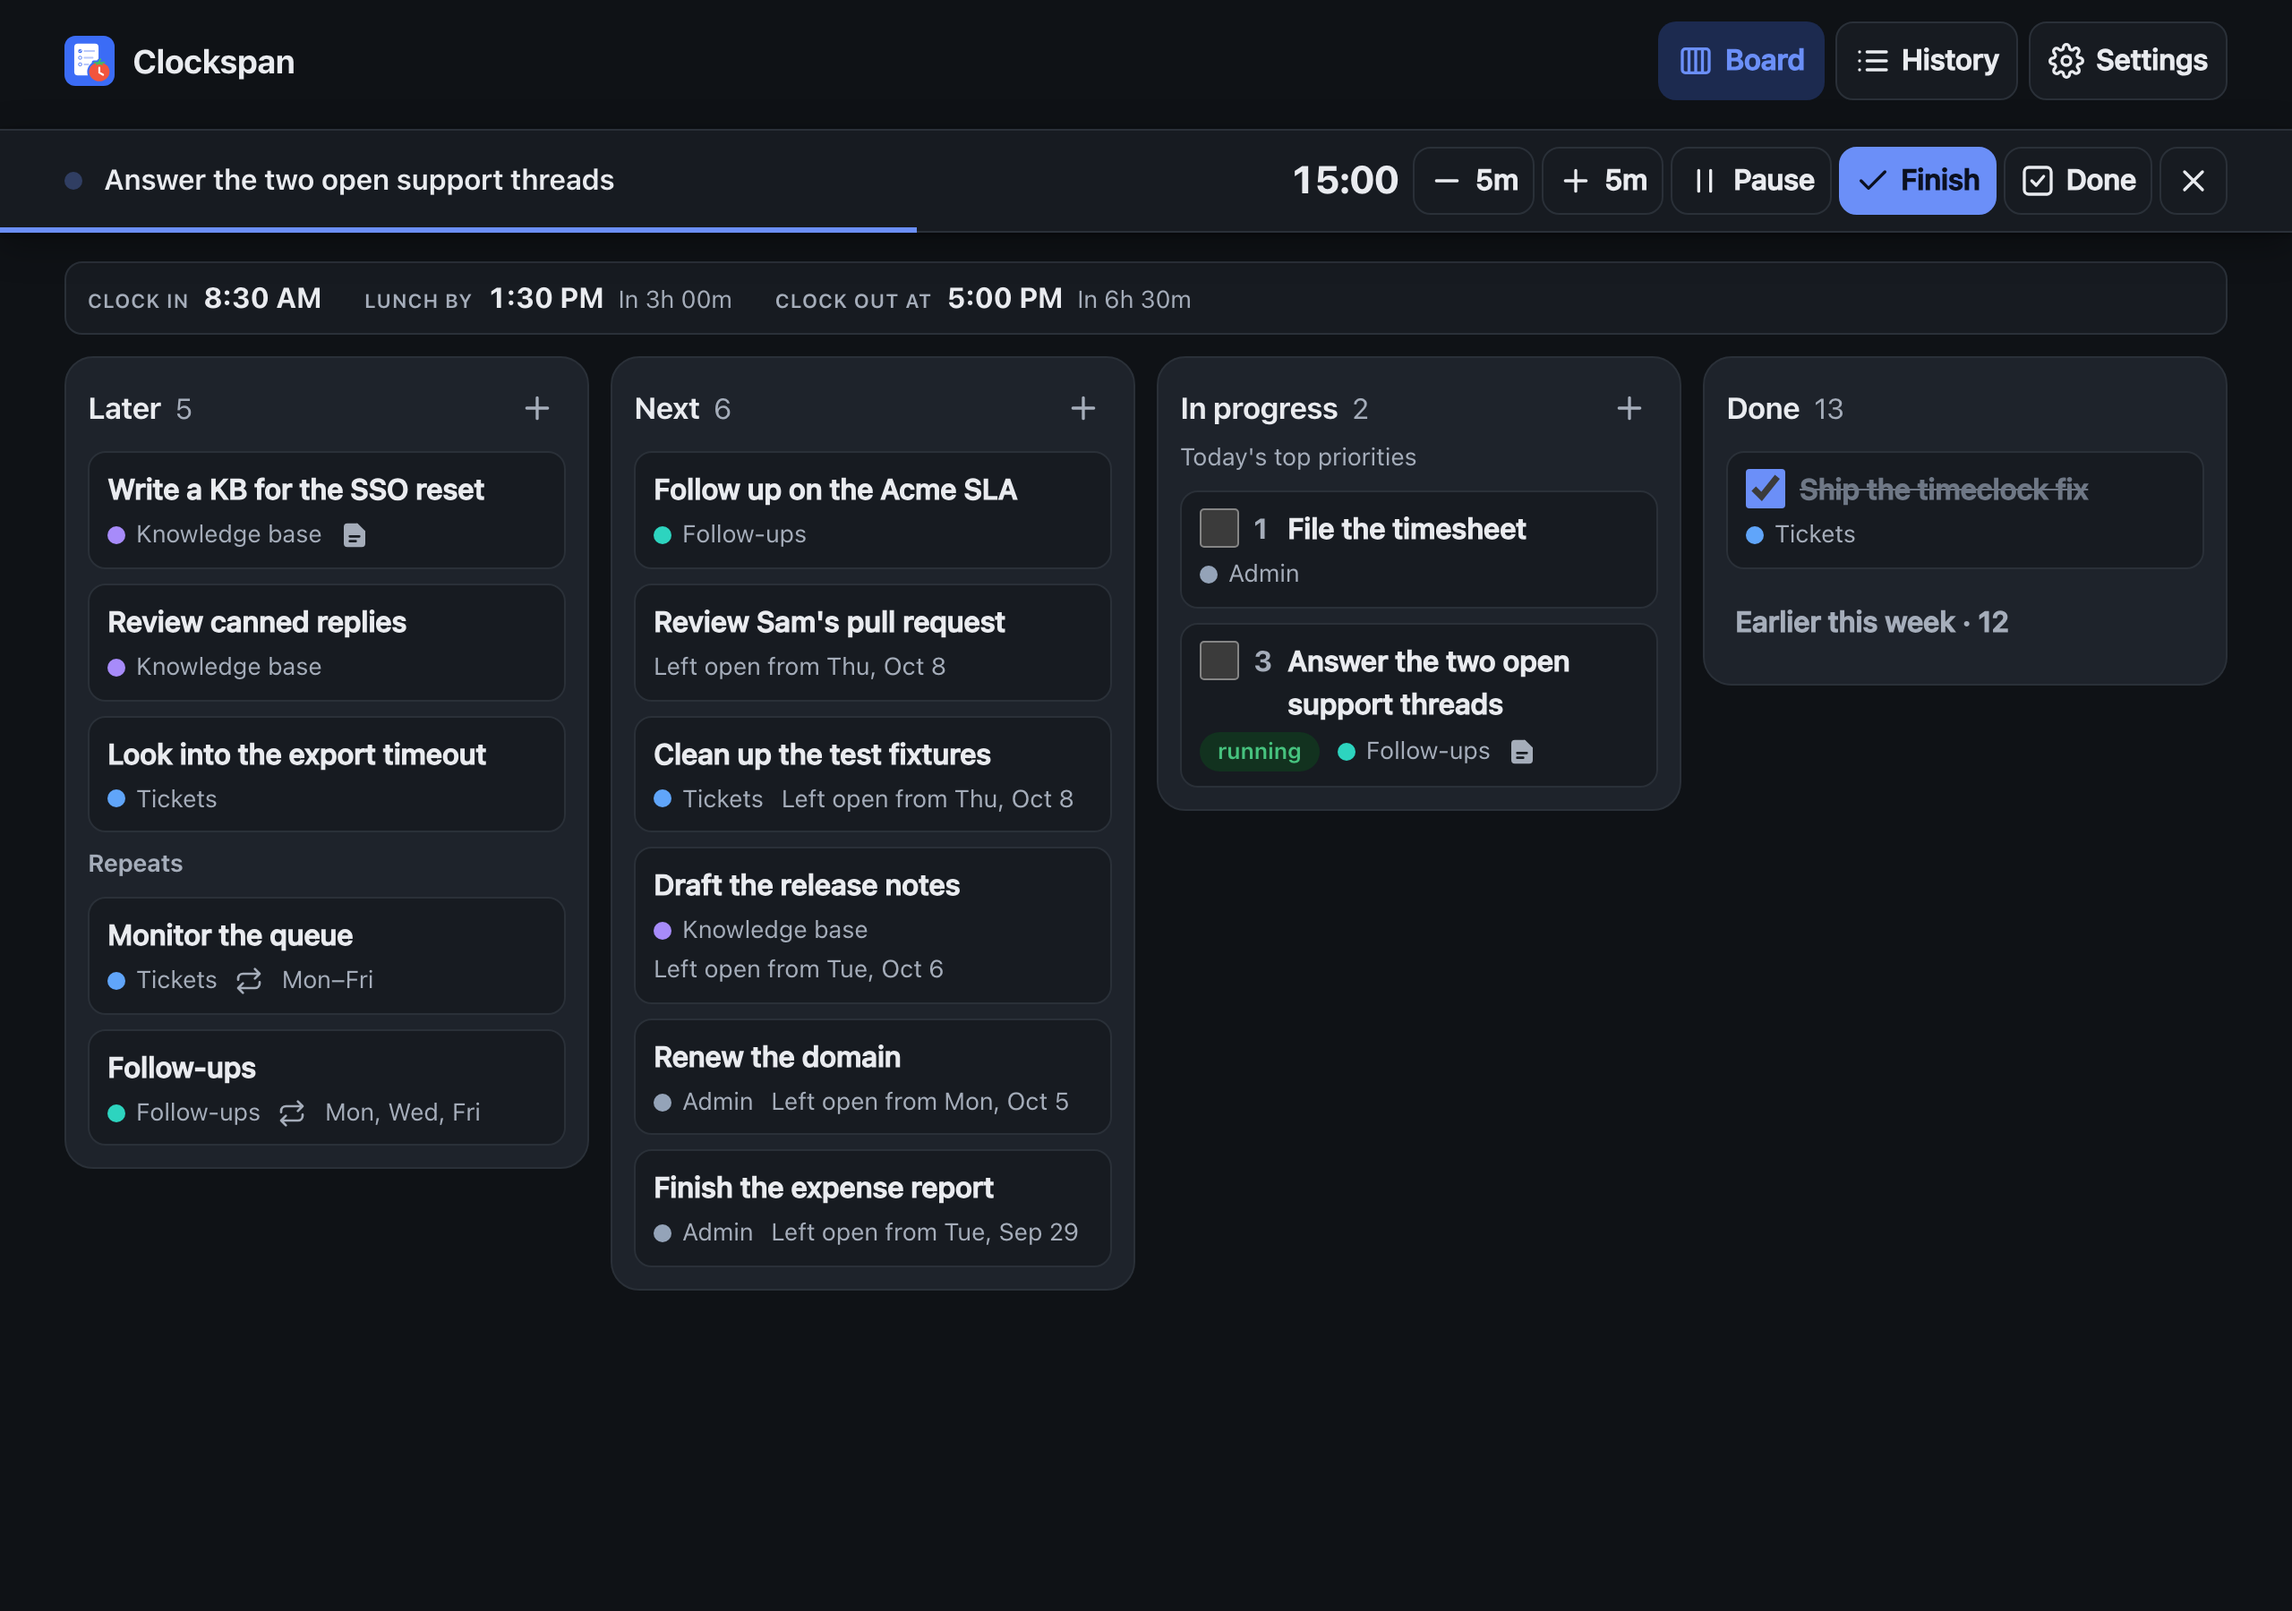
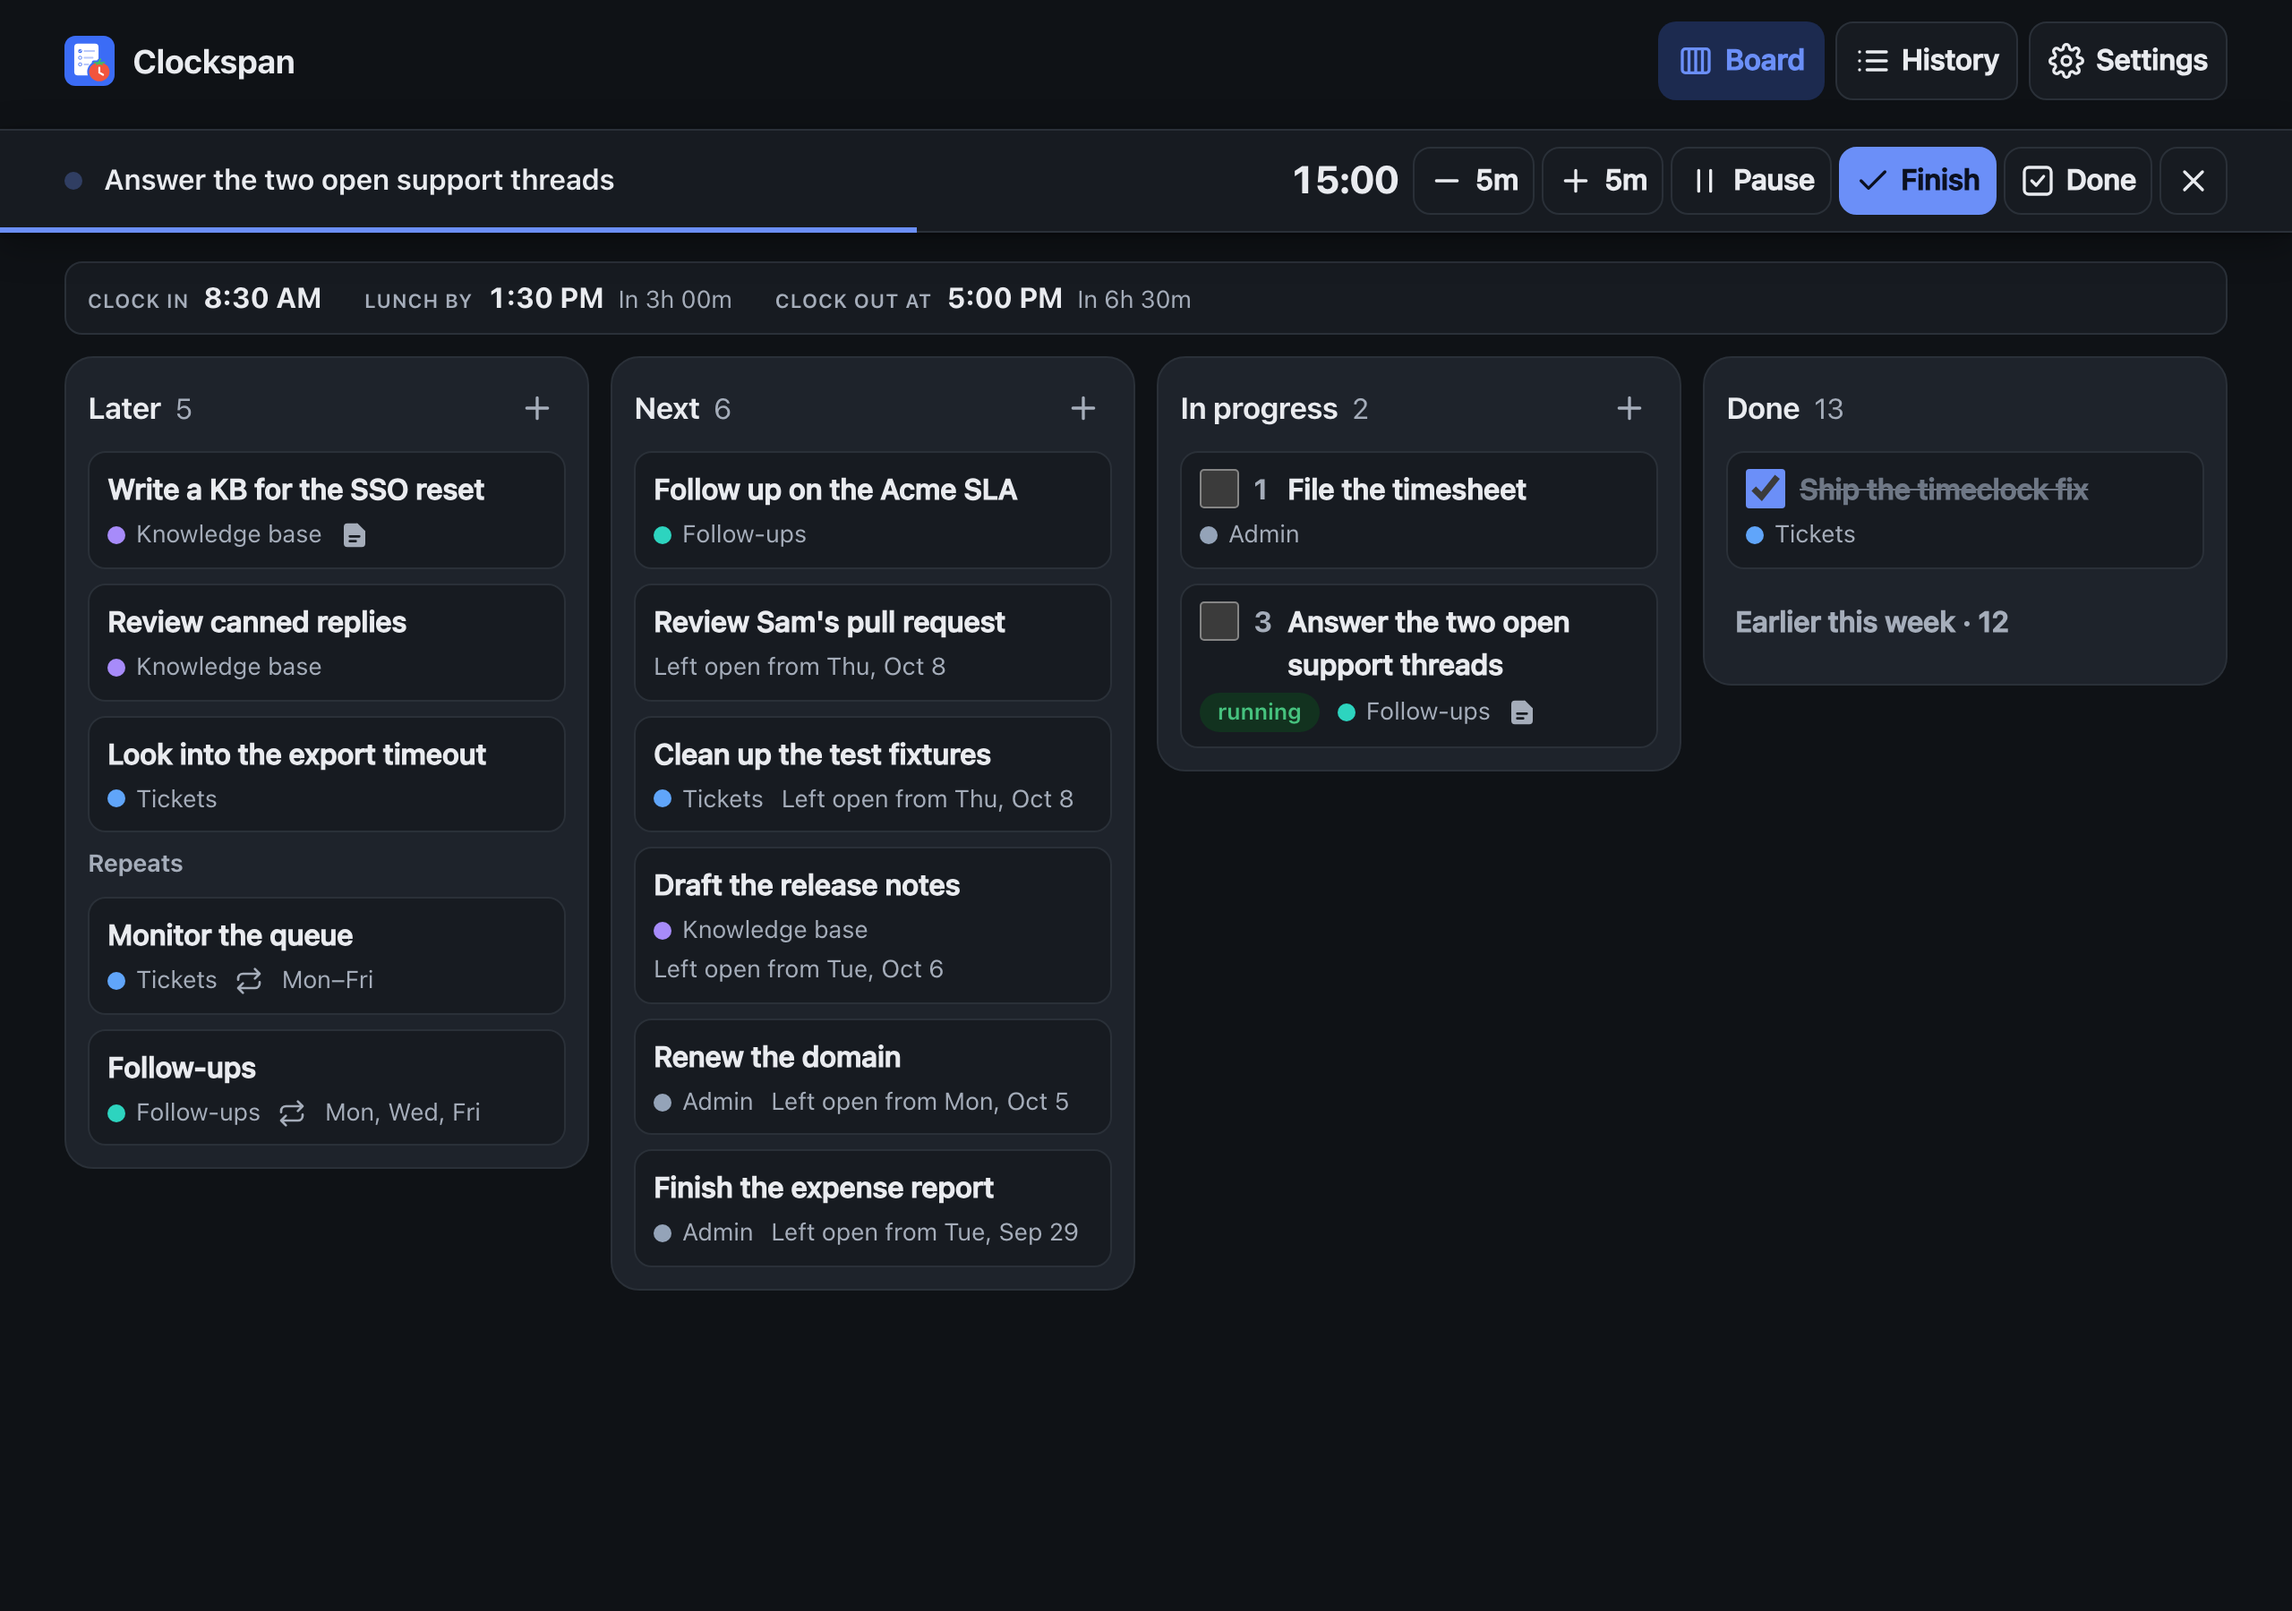
Drop In Progress's subtitle
"Today's top priorities" sat under In progress's heading whether or not
the column had cards, and an empty column said "today's list" again in its
empty line. The subtitle goes; the empty line now reads "Nothing open on
today's top priorities."

Changed region(s): [[0.5, 0.28, 0.6875, 0.4978]]

diff --git a/client/src/components/board/Board.tsx b/client/src/components/board/Board.tsx
@@ -659,11 +659,10 @@ export const Board = memo(function Board({
             shown={shownColumn}
             over={over}
             count={shown.progress.length}
-            sub="Today's top priorities"
             headRef={headRef('progress')}
             add={add('progress', listFull, addRow)}
           >
-            {shown.progress.length > 0 ? list(shown.progress, 'progress') : <Empty>Nothing open on today's list.</Empty>}
+            {shown.progress.length > 0 ? list(shown.progress, 'progress') : <Empty>Nothing open on today's top priorities.</Empty>}
           </Column>
           <Column id="done" shown={shownColumn} over={over} count={done} headRef={headRef('done')}>
             {done === 0 && <Empty>Nothing done this week.</Empty>}
@@ -710,7 +709,6 @@ function Column({
   shown,
   over,
   count,
-  sub,
   headRef,
   add,
   children,
@@ -719,7 +717,6 @@ function Column({
   shown: ColumnId;
   over?: ColumnId;
   count: number;
-  sub?: string;
   /** Where the focus goes when Delete or Remove from today takes the column's last item: its +, else its heading. */
   headRef: (el: HTMLElement | null) => void;
   add?: ColumnAdd;
@@ -757,7 +754,6 @@ function Column({
           </button>
         )}
       </header>
-      {sub && <p className="muted small board-col-sub">{sub}</p>}
       {add?.shut ? (
         <p className="muted small" id={shut}>
           {add.shut}

diff --git a/client/src/styles.css b/client/src/styles.css
@@ -2592,9 +2592,6 @@ button.log-label:hover {
 .board-add-box > .category-wrap {
   align-items: center;
 }
-.board-col-sub {
-  margin-top: -6px;
-}
 .board-list {
   display: flex;
   flex-direction: column;
@@ -3164,8 +3161,7 @@ kbd {
     --hit-inset: -11px -4px -11px -10px;
   }
   /* 32 px square (30 inside the border) at the end of a column's head, in the column's 12 px
-     padding, 8 px above the box or the first card, whose title reaches 2 px into that gap (In
-     progress's sub line takes no taps): 44 px. */
+     padding, 8 px above the box or the first card, whose title reaches 2 px into that gap: 44 px. */
   .board-add {
     --hit-inset: -7px;
   }

diff --git a/client/src/components/board/Board.test.tsx b/client/src/components/board/Board.test.tsx
@@ -317,7 +317,7 @@ describe('Board', () => {
     expect(vi.mocked(api.editItem).mock.invocationCallOrder[0]).toBeLessThan(vi.mocked(api.putPriorities).mock.invocationCallOrder[0]!);
     expect(titlesIn('Later')).toEqual(['Report', 'Write a KB']);
     expect(titlesIn('In progress')).toEqual([]);
-    expect(screen.getByText("Nothing open on today's list.")).toBeTruthy();
+    expect(screen.getByText("Nothing open on today's top priorities.")).toBeTruthy();
   });
 
   it('puts the focus on the moved item once it lands, when the move left it nowhere', async () => {
